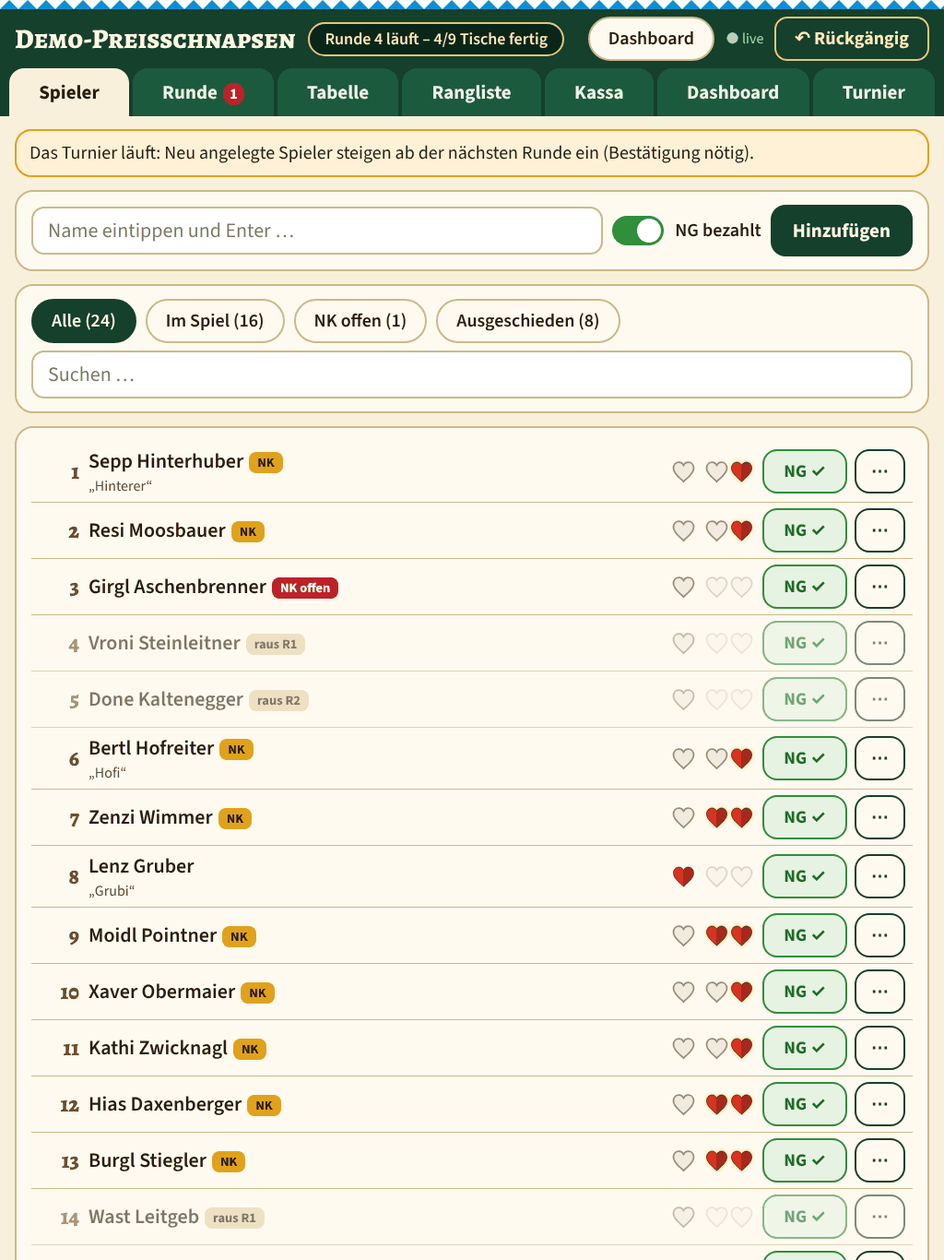
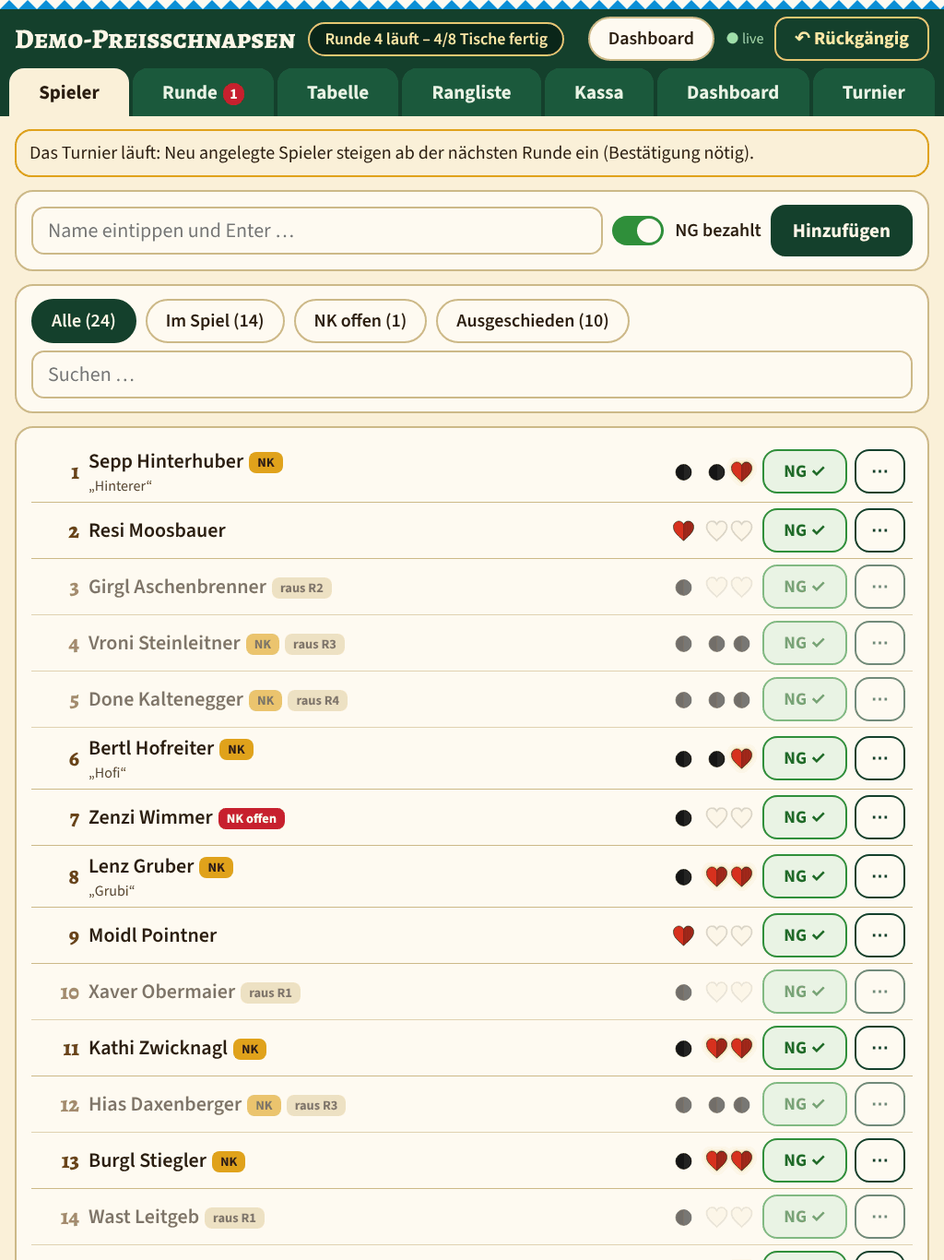
Redesign table cards and mark bummerls with a black dot
Table cards on the dashboard use a playing-card layout with all four suits in the corners and the table number in a medallion; losers show one dot per bummerl. Lost lives are drawn as a black dot in the heraldic style of the heart, rebuy lives not bought stay outlined. README screenshots updated.

diff --git a/app/static/js/suits.js b/app/static/js/suits.js
@@ -1,6 +1,6 @@
 /* Generated by tools/make_suits.py - do not edit by hand. */
 (function () {
-  var SVG = '<svg xmlns="http://www.w3.org/2000/svg" width="0" height="0" style="position:absolute;width:0;height:0;overflow:hidden" aria-hidden="true"><defs><clipPath id="cl-eichel-n"><path d="M30 52 V23 A20 20 0 0 1 70 23 V52 Z"/></clipPath><clipPath id="cl-eichel-c"><path d="M24 52 H76 C80 52 82 55 82 60 C82 73 69 81 50 81 C31 81 18 73 18 60 C18 55 20 52 24 52 Z"/></clipPath><clipPath id="cl-gras"><path d="M51 5 C60 16 88 34 91 56 C93 72 82 80 68 79 C61 78 56 75 52 71 C48 75 42 78 35 79 C21 80 9 71 11 56 C14 34 42 16 51 5 Z"/></clipPath><clipPath id="cl-herz"><path d="M50 93 C38 79 6 60 6 34 C6 18 17 8 30 8 C40 8 47 14 50 23 C53 14 60 8 70 8 C83 8 94 18 94 34 C94 60 62 79 50 93 Z"/></clipPath><clipPath id="cl-schelln"><circle cx="50" cy="49" r="43"/></clipPath></defs><symbol id="eichel" viewBox="0 0 100 100"><path d="M53 79 C55 88 51 94 38 98 C36.5 97.5 36.5 96 38 95.5 C46 92 49 87 48 79 Z" fill="#3c7d2c" stroke="#141414" stroke-width="1.8" stroke-linejoin="round"/><g clip-path="url(#cl-eichel-n)"><rect x="0" y="0" width="50" height="60" fill="#f7ea3a"/><rect x="50" y="0" width="50" height="60" fill="#d8321f"/><path d="M51.50 0V52M54.50 0V52M57.50 0V52M60.50 0V52M63.50 0V52M66.50 0V52M69.50 0V52M72.50 0V52M75.50 0V52M78.50 0V52M81.50 0V52M84.50 0V52M87.50 0V52M90.50 0V52M93.50 0V52M96.50 0V52M99.50 0V52" stroke="#141414" stroke-width="0.95" fill="none"/><rect x="0" y="44" width="50" height="8" fill="#1f35d0"/><rect x="50" y="44" width="50" height="8" fill="#141414"/></g><path d="M30 52 V23 A20 20 0 0 1 70 23 V52 Z" fill="none" stroke="#141414" stroke-width="2.4" stroke-linejoin="round"/><path d="M30 44 H70 M50 3 V44" stroke="#141414" stroke-width="1.4"/><path d="M24 52 H76 C80 52 82 55 82 60 C82 73 69 81 50 81 C31 81 18 73 18 60 C18 55 20 52 24 52 Z" fill="#3c7d2c"/><g clip-path="url(#cl-eichel-c)"><path d="M51.50 50V84M54.50 50V84M57.50 50V84M60.50 50V84M63.50 50V84M66.50 50V84M69.50 50V84M72.50 50V84M75.50 50V84M78.50 50V84M81.50 50V84M84.50 50V84M87.50 50V84M90.50 50V84M93.50 50V84M96.50 50V84M99.50 50V84" stroke="#141414" stroke-width="0.95" fill="none"/></g><path d="M31 57 C26 57 25.5 64 32 76 C32.2 68 35.5 61 33.6 58.2 C33 57.4 32 57 31 57 Z M47 57 C42 57 41.5 64 48 76 C48.2 68 51.5 61 49.6 58.2 C49 57.4 48 57 47 57 Z M64 57 C59 57 58.5 64 65 76 C65.2 68 68.5 61 66.6 58.2 C66 57.4 65 57 64 57 Z" fill="#141414"/><path d="M24 52 H76 C80 52 82 55 82 60 C82 73 69 81 50 81 C31 81 18 73 18 60 C18 55 20 52 24 52 Z" fill="none" stroke="#141414" stroke-width="2.4" stroke-linejoin="round"/></symbol><symbol id="gras" viewBox="0 0 100 100"><path d="M52 71 C53 81 51 88 45 93 C42 95 40 92 43 90 C47 87 49 81 49 72 Z" fill="#3c7d2c" stroke="#141414" stroke-width="1.8" stroke-linejoin="round"/><path d="M51 5 C60 16 88 34 91 56 C93 72 82 80 68 79 C61 78 56 75 52 71 C48 75 42 78 35 79 C21 80 9 71 11 56 C14 34 42 16 51 5 Z" fill="#3c7d2c"/><g clip-path="url(#cl-gras)"><path d="M52.50 0V100M55.50 0V100M58.50 0V100M61.50 0V100M64.50 0V100M67.50 0V100M70.50 0V100M73.50 0V100M76.50 0V100M79.50 0V100M82.50 0V100M85.50 0V100M88.50 0V100M91.50 0V100M94.50 0V100M97.50 0V100" stroke="#141414" stroke-width="0.95" fill="none"/></g><g clip-path="url(#cl-gras)"><path d="M17 36 C34 33 58 35 82 38 M28 33 l-5 -6 M44 34 l-4 -7 M60 35 l3 -6 M72 36 l4 -6 M13 50 C36 46 62 48 88 51 M26 48 l-5 -6 M44 47 l-4 -7 M62 48 l3 -7 M76 49 l5 -6 M14 64 C38 60 64 62 89 65 M28 62 l-4 -6 M46 61 l-4 -7 M64 62 l3 -7 M78 63 l5 -6" stroke="#141414" stroke-width="1.9" stroke-linecap="round" fill="none"/></g><path d="M51 5 C60 16 88 34 91 56 C93 72 82 80 68 79 C61 78 56 75 52 71 C48 75 42 78 35 79 C21 80 9 71 11 56 C14 34 42 16 51 5 Z" fill="none" stroke="#141414" stroke-width="2.4" stroke-linejoin="round"/></symbol><symbol id="herz" viewBox="0 0 100 100"><path d="M50 93 C38 79 6 60 6 34 C6 18 17 8 30 8 C40 8 47 14 50 23 C53 14 60 8 70 8 C83 8 94 18 94 34 C94 60 62 79 50 93 Z" fill="#d8321f"/><g clip-path="url(#cl-herz)"><path d="M51.50 0V100M54.50 0V100M57.50 0V100M60.50 0V100M63.50 0V100M66.50 0V100M69.50 0V100M72.50 0V100M75.50 0V100M78.50 0V100M81.50 0V100M84.50 0V100M87.50 0V100M90.50 0V100M93.50 0V100M96.50 0V100M99.50 0V100" stroke="#141414" stroke-width="0.95" fill="none"/></g><path d="M50 23 V93" stroke="#141414" stroke-width="1.1"/><path d="M50 93 C38 79 6 60 6 34 C6 18 17 8 30 8 C40 8 47 14 50 23 C53 14 60 8 70 8 C83 8 94 18 94 34 C94 60 62 79 50 93 Z" fill="none" stroke="#141414" stroke-width="2.4" stroke-linejoin="round"/></symbol><symbol id="herz-leer" viewBox="0 0 100 100"><path d="M50 93 C38 79 6 60 6 34 C6 18 17 8 30 8 C40 8 47 14 50 23 C53 14 60 8 70 8 C83 8 94 18 94 34 C94 60 62 79 50 93 Z" fill="currentColor" fill-opacity=".14" stroke="currentColor" stroke-width="7" stroke-linejoin="round"/></symbol><symbol id="schelln" viewBox="0 0 100 100"><g clip-path="url(#cl-schelln)"><rect x="0" y="0" width="100" height="40" fill="#f7ea3a"/><rect x="0" y="40" width="100" height="22" fill="#d8321f"/><rect x="0" y="62" width="100" height="6" fill="#f7ea3a"/><rect x="0" y="68" width="100" height="40" fill="#3c7d2c"/><path d="M50 7.50H100M50 10.50H100M50 13.50H100M50 16.50H100M50 19.50H100M50 22.50H100M50 25.50H100M50 28.50H100M50 31.50H100M50 34.50H100M50 37.50H100" stroke="#141414" stroke-width="0.95" fill="none"/><path d="M51.50 40V68M54.50 40V68M57.50 40V68M60.50 40V68M63.50 40V68M66.50 40V68M69.50 40V68M72.50 40V68M75.50 40V68M78.50 40V68M81.50 40V68M84.50 40V68M87.50 40V68M90.50 40V68M93.50 40V68M96.50 40V68M99.50 40V68" stroke="#141414" stroke-width="0.95" fill="none"/><path d="M50 69.50H100M50 72.50H100M50 75.50H100M50 78.50H100M50 81.50H100M50 84.50H100M50 87.50H100M50 90.50H100M50 93.50H100M50 96.50H100M50 99.50H100" stroke="#141414" stroke-width="0.95" fill="none"/><path d="M0 40 H100 M0 62 H100 M0 68 H100 M50 6 V100" stroke="#141414" stroke-width="1.5"/><path d="M50 92 C41 88 37 79 41 70 C45 74 49 80 50 92 Z M50 92 C59 88 63 79 59 70 C55 74 51 80 50 92 Z M24 80 C27 71 35 66 43 68 C40 76 33 81 24 80 Z M76 80 C73 71 65 66 57 68 C60 76 67 81 76 80 Z" fill="#3c7d2c" stroke="#141414" stroke-width="1.6" stroke-linejoin="round"/></g><circle cx="28" cy="51" r="6.2" fill="#d8321f" stroke="#141414" stroke-width="1.8"/><path d="M22.4 49 H33.6 M22.2 51.5 H33.8 M23 54 H33" stroke="#141414" stroke-width="1.2"/><circle cx="50" cy="51" r="6.2" fill="#d8321f" stroke="#141414" stroke-width="1.8"/><path d="M44.4 49 H55.6 M44.2 51.5 H55.8 M45 54 H55" stroke="#141414" stroke-width="1.2"/><circle cx="72" cy="51" r="6.2" fill="#d8321f" stroke="#141414" stroke-width="1.8"/><path d="M66.4 49 H77.6 M66.2 51.5 H77.8 M67 54 H77" stroke="#141414" stroke-width="1.2"/><circle cx="50" cy="11" r="5.2" fill="#f7ea3a" stroke="#141414" stroke-width="1.6"/><path d="M50 6 V16 M51.5 7.5 H55 M51.5 10 H55.6 M51.5 12.5 H55.4" stroke="#141414" stroke-width="1"/><path d="M45 91 C45 98 55 98 55 91" fill="#3c7d2c" stroke="#141414" stroke-width="1.8"/><circle cx="50" cy="49" r="43" fill="none" stroke="#141414" stroke-width="2.4"/></symbol></svg>';
+  var SVG = '<svg xmlns="http://www.w3.org/2000/svg" width="0" height="0" style="position:absolute;width:0;height:0;overflow:hidden" aria-hidden="true"><defs><clipPath id="cl-eichel-n"><path d="M30 52 V23 A20 20 0 0 1 70 23 V52 Z"/></clipPath><clipPath id="cl-eichel-c"><path d="M24 52 H76 C80 52 82 55 82 60 C82 73 69 81 50 81 C31 81 18 73 18 60 C18 55 20 52 24 52 Z"/></clipPath><clipPath id="cl-gras"><path d="M51 5 C60 16 88 34 91 56 C93 72 82 80 68 79 C61 78 56 75 52 71 C48 75 42 78 35 79 C21 80 9 71 11 56 C14 34 42 16 51 5 Z"/></clipPath><clipPath id="cl-herz"><path d="M50 93 C38 79 6 60 6 34 C6 18 17 8 30 8 C40 8 47 14 50 23 C53 14 60 8 70 8 C83 8 94 18 94 34 C94 60 62 79 50 93 Z"/></clipPath><clipPath id="cl-bummerl"><circle cx="50" cy="52" r="34"/></clipPath><clipPath id="cl-schelln"><circle cx="50" cy="49" r="43"/></clipPath></defs><symbol id="eichel" viewBox="0 0 100 100"><path d="M53 79 C55 88 51 94 38 98 C36.5 97.5 36.5 96 38 95.5 C46 92 49 87 48 79 Z" fill="#3c7d2c" stroke="#141414" stroke-width="1.8" stroke-linejoin="round"/><g clip-path="url(#cl-eichel-n)"><rect x="0" y="0" width="50" height="60" fill="#f7ea3a"/><rect x="50" y="0" width="50" height="60" fill="#d8321f"/><path d="M51.50 0V52M54.50 0V52M57.50 0V52M60.50 0V52M63.50 0V52M66.50 0V52M69.50 0V52M72.50 0V52M75.50 0V52M78.50 0V52M81.50 0V52M84.50 0V52M87.50 0V52M90.50 0V52M93.50 0V52M96.50 0V52M99.50 0V52" stroke="#141414" stroke-width="0.95" fill="none"/><rect x="0" y="44" width="50" height="8" fill="#1f35d0"/><rect x="50" y="44" width="50" height="8" fill="#141414"/></g><path d="M30 52 V23 A20 20 0 0 1 70 23 V52 Z" fill="none" stroke="#141414" stroke-width="2.4" stroke-linejoin="round"/><path d="M30 44 H70 M50 3 V44" stroke="#141414" stroke-width="1.4"/><path d="M24 52 H76 C80 52 82 55 82 60 C82 73 69 81 50 81 C31 81 18 73 18 60 C18 55 20 52 24 52 Z" fill="#3c7d2c"/><g clip-path="url(#cl-eichel-c)"><path d="M51.50 50V84M54.50 50V84M57.50 50V84M60.50 50V84M63.50 50V84M66.50 50V84M69.50 50V84M72.50 50V84M75.50 50V84M78.50 50V84M81.50 50V84M84.50 50V84M87.50 50V84M90.50 50V84M93.50 50V84M96.50 50V84M99.50 50V84" stroke="#141414" stroke-width="0.95" fill="none"/></g><path d="M31 57 C26 57 25.5 64 32 76 C32.2 68 35.5 61 33.6 58.2 C33 57.4 32 57 31 57 Z M47 57 C42 57 41.5 64 48 76 C48.2 68 51.5 61 49.6 58.2 C49 57.4 48 57 47 57 Z M64 57 C59 57 58.5 64 65 76 C65.2 68 68.5 61 66.6 58.2 C66 57.4 65 57 64 57 Z" fill="#141414"/><path d="M24 52 H76 C80 52 82 55 82 60 C82 73 69 81 50 81 C31 81 18 73 18 60 C18 55 20 52 24 52 Z" fill="none" stroke="#141414" stroke-width="2.4" stroke-linejoin="round"/></symbol><symbol id="gras" viewBox="0 0 100 100"><path d="M52 71 C53 81 51 88 45 93 C42 95 40 92 43 90 C47 87 49 81 49 72 Z" fill="#3c7d2c" stroke="#141414" stroke-width="1.8" stroke-linejoin="round"/><path d="M51 5 C60 16 88 34 91 56 C93 72 82 80 68 79 C61 78 56 75 52 71 C48 75 42 78 35 79 C21 80 9 71 11 56 C14 34 42 16 51 5 Z" fill="#3c7d2c"/><g clip-path="url(#cl-gras)"><path d="M52.50 0V100M55.50 0V100M58.50 0V100M61.50 0V100M64.50 0V100M67.50 0V100M70.50 0V100M73.50 0V100M76.50 0V100M79.50 0V100M82.50 0V100M85.50 0V100M88.50 0V100M91.50 0V100M94.50 0V100M97.50 0V100" stroke="#141414" stroke-width="0.95" fill="none"/></g><g clip-path="url(#cl-gras)"><path d="M17 36 C34 33 58 35 82 38 M28 33 l-5 -6 M44 34 l-4 -7 M60 35 l3 -6 M72 36 l4 -6 M13 50 C36 46 62 48 88 51 M26 48 l-5 -6 M44 47 l-4 -7 M62 48 l3 -7 M76 49 l5 -6 M14 64 C38 60 64 62 89 65 M28 62 l-4 -6 M46 61 l-4 -7 M64 62 l3 -7 M78 63 l5 -6" stroke="#141414" stroke-width="1.9" stroke-linecap="round" fill="none"/></g><path d="M51 5 C60 16 88 34 91 56 C93 72 82 80 68 79 C61 78 56 75 52 71 C48 75 42 78 35 79 C21 80 9 71 11 56 C14 34 42 16 51 5 Z" fill="none" stroke="#141414" stroke-width="2.4" stroke-linejoin="round"/></symbol><symbol id="herz" viewBox="0 0 100 100"><path d="M50 93 C38 79 6 60 6 34 C6 18 17 8 30 8 C40 8 47 14 50 23 C53 14 60 8 70 8 C83 8 94 18 94 34 C94 60 62 79 50 93 Z" fill="#d8321f"/><g clip-path="url(#cl-herz)"><path d="M51.50 0V100M54.50 0V100M57.50 0V100M60.50 0V100M63.50 0V100M66.50 0V100M69.50 0V100M72.50 0V100M75.50 0V100M78.50 0V100M81.50 0V100M84.50 0V100M87.50 0V100M90.50 0V100M93.50 0V100M96.50 0V100M99.50 0V100" stroke="#141414" stroke-width="0.95" fill="none"/></g><path d="M50 23 V93" stroke="#141414" stroke-width="1.1"/><path d="M50 93 C38 79 6 60 6 34 C6 18 17 8 30 8 C40 8 47 14 50 23 C53 14 60 8 70 8 C83 8 94 18 94 34 C94 60 62 79 50 93 Z" fill="none" stroke="#141414" stroke-width="2.4" stroke-linejoin="round"/></symbol><symbol id="herz-leer" viewBox="0 0 100 100"><path d="M50 93 C38 79 6 60 6 34 C6 18 17 8 30 8 C40 8 47 14 50 23 C53 14 60 8 70 8 C83 8 94 18 94 34 C94 60 62 79 50 93 Z" fill="currentColor" fill-opacity=".14" stroke="currentColor" stroke-width="7" stroke-linejoin="round"/></symbol><symbol id="bummerl" viewBox="0 0 100 100"><circle cx="50" cy="52" r="34" fill="#141414"/><g clip-path="url(#cl-bummerl)"><rect x="50" y="0" width="50" height="100" fill="#2b2b2b"/><path d="M51.50 0V100M54.50 0V100M57.50 0V100M60.50 0V100M63.50 0V100M66.50 0V100M69.50 0V100M72.50 0V100M75.50 0V100M78.50 0V100M81.50 0V100M84.50 0V100M87.50 0V100M90.50 0V100M93.50 0V100M96.50 0V100M99.50 0V100" stroke="#141414" stroke-width="0.95" fill="none"/></g><path d="M50 18 V86" stroke="#141414" stroke-width="1.1"/><circle cx="50" cy="52" r="34" fill="none" stroke="#141414" stroke-width="2.4"/></symbol><symbol id="schelln" viewBox="0 0 100 100"><g clip-path="url(#cl-schelln)"><rect x="0" y="0" width="100" height="40" fill="#f7ea3a"/><rect x="0" y="40" width="100" height="22" fill="#d8321f"/><rect x="0" y="62" width="100" height="6" fill="#f7ea3a"/><rect x="0" y="68" width="100" height="40" fill="#3c7d2c"/><path d="M50 7.50H100M50 10.50H100M50 13.50H100M50 16.50H100M50 19.50H100M50 22.50H100M50 25.50H100M50 28.50H100M50 31.50H100M50 34.50H100M50 37.50H100" stroke="#141414" stroke-width="0.95" fill="none"/><path d="M51.50 40V68M54.50 40V68M57.50 40V68M60.50 40V68M63.50 40V68M66.50 40V68M69.50 40V68M72.50 40V68M75.50 40V68M78.50 40V68M81.50 40V68M84.50 40V68M87.50 40V68M90.50 40V68M93.50 40V68M96.50 40V68M99.50 40V68" stroke="#141414" stroke-width="0.95" fill="none"/><path d="M50 69.50H100M50 72.50H100M50 75.50H100M50 78.50H100M50 81.50H100M50 84.50H100M50 87.50H100M50 90.50H100M50 93.50H100M50 96.50H100M50 99.50H100" stroke="#141414" stroke-width="0.95" fill="none"/><path d="M0 40 H100 M0 62 H100 M0 68 H100 M50 6 V100" stroke="#141414" stroke-width="1.5"/><path d="M50 92 C41 88 37 79 41 70 C45 74 49 80 50 92 Z M50 92 C59 88 63 79 59 70 C55 74 51 80 50 92 Z M24 80 C27 71 35 66 43 68 C40 76 33 81 24 80 Z M76 80 C73 71 65 66 57 68 C60 76 67 81 76 80 Z" fill="#3c7d2c" stroke="#141414" stroke-width="1.6" stroke-linejoin="round"/></g><circle cx="28" cy="51" r="6.2" fill="#d8321f" stroke="#141414" stroke-width="1.8"/><path d="M22.4 49 H33.6 M22.2 51.5 H33.8 M23 54 H33" stroke="#141414" stroke-width="1.2"/><circle cx="50" cy="51" r="6.2" fill="#d8321f" stroke="#141414" stroke-width="1.8"/><path d="M44.4 49 H55.6 M44.2 51.5 H55.8 M45 54 H55" stroke="#141414" stroke-width="1.2"/><circle cx="72" cy="51" r="6.2" fill="#d8321f" stroke="#141414" stroke-width="1.8"/><path d="M66.4 49 H77.6 M66.2 51.5 H77.8 M67 54 H77" stroke="#141414" stroke-width="1.2"/><circle cx="50" cy="11" r="5.2" fill="#f7ea3a" stroke="#141414" stroke-width="1.6"/><path d="M50 6 V16 M51.5 7.5 H55 M51.5 10 H55.6 M51.5 12.5 H55.4" stroke="#141414" stroke-width="1"/><path d="M45 91 C45 98 55 98 55 91" fill="#3c7d2c" stroke="#141414" stroke-width="1.8"/><circle cx="50" cy="49" r="43" fill="none" stroke="#141414" stroke-width="2.4"/></symbol></svg>';
   function inject() {
     if (document.getElementById('suits-sprite')) return;
     var d = document.createElement('div'); d.id = 'suits-sprite'; d.style.cssText = 'position:absolute;width:0;height:0;overflow:hidden';

diff --git a/app/static/css/dashboard.css b/app/static/css/dashboard.css
@@ -26,23 +26,31 @@ body.dash.idle{cursor:none}
 
 /* Tables */
 .tgrid{display:grid;height:100%;gap:18px}
-.card{container-type:size;position:relative;background:linear-gradient(#fffbec,#f6ecd0);color:var(--ink);border-radius:18px;border:4px solid #3b2a14;box-shadow:0 6px 0 #0006;overflow:hidden}
-.card .ci{position:absolute;inset:0;display:flex;flex-direction:column;justify-content:center;padding:4cqh 5cqw 4cqh 20cqw}
-.card .idx{position:absolute;left:5cqw;top:6cqh;width:13cqw;display:flex;flex-direction:column;align-items:center;font-family:var(--head);font-weight:800;font-size:min(20cqw,26cqh);line-height:.95;color:var(--red-d)}
-.card .idx .ic{font-size:min(11cqw,14cqh);margin-top:.15em}
-.card .idx.alt{color:#1f6a28}.card .idx.alt2{color:#a8730a}.card .idx.alt3{color:#6a431a}
+/* Table cards in playing-card style (sizes relative to the card via container units) */
+.card{container-type:size;position:relative;background:radial-gradient(120% 140% at 30% 20%,#fffdf3,#f4e8c8);color:var(--ink);border-radius:2.4cqmin;border:.9cqmin solid #3b2a14;box-shadow:0 6px 0 #0006;overflow:hidden}
+.card:before{content:"";position:absolute;inset:2.6cqmin;border:.45cqmin solid #3b2a1455;border-radius:1.6cqmin;pointer-events:none}
+.card:after{content:"";position:absolute;inset:3.8cqmin;border:.2cqmin solid #3b2a1430;border-radius:1.2cqmin;pointer-events:none}
+.card .cn{position:absolute;width:14cqmin;height:14cqmin;display:flex}
+.card .cn .ic{width:100%;height:100%}
+.card .cn.tl{left:6cqmin;top:6cqmin}.card .cn.tr{right:6cqmin;top:6cqmin}
+.card .cn.bl{left:6cqmin;bottom:6cqmin;transform:rotate(180deg)}.card .cn.br{right:6cqmin;bottom:6cqmin;transform:rotate(180deg)}
+.card .medal{position:absolute;left:9cqmin;top:50%;transform:translateY(-50%);width:42cqmin;height:42cqmin;border-radius:50%;display:flex;flex-direction:column;align-items:center;justify-content:center;background:#fffaf0;border:1.1cqmin double currentColor;box-shadow:inset 0 0 0 .5cqmin #fffaf0,inset 0 0 0 .9cqmin currentColor;font-family:var(--head);line-height:.9;z-index:1}
+.card .medal b{font-size:22cqmin;font-weight:800}
+.card .medal small{font-size:5.4cqmin;font-weight:700;letter-spacing:.08em;text-transform:uppercase;margin-top:.6cqmin;opacity:.85}
+.card .medal.t-eichel{color:#6a431a}.card .medal.t-gras{color:#2f6e25}.card .medal.t-herz{color:#b3261b}.card .medal.t-schelln{color:#a8730a}
+.card .ci{position:absolute;top:12cqmin;bottom:12cqmin;left:58cqmin;right:10cqmin;display:flex;flex-direction:column;justify-content:center;min-width:0}
 .card .nmx{min-width:0;overflow:hidden;text-overflow:ellipsis;white-space:nowrap}
-.card .pl{font-weight:700;font-size:calc(min(9.5cqw,17cqh) * var(--s,1));line-height:1.15;white-space:nowrap;overflow:hidden;text-overflow:ellipsis;display:flex;align-items:center;gap:.3em}
-.card .vs{font-size:min(5cqw,9cqh);color:var(--ink-2);line-height:1;padding:.1em 0;font-family:var(--head)}
-.card .pl .tag{margin-left:auto}
+.card .pl{font-weight:700;font-size:calc(15cqmin * var(--s,1));line-height:1.15;white-space:nowrap;overflow:hidden;display:flex;align-items:center;gap:.3em}
+.card .vs{font-size:5.6cqmin;color:var(--ink-2);line-height:1;padding:.5cqmin 0 .5cqmin .2em;font-family:var(--head);letter-spacing:.06em}
+.card .status{position:absolute;top:7.5cqmin;right:25cqmin;font-weight:700;font-size:5.6cqmin;color:var(--gold-d);text-transform:uppercase;letter-spacing:.08em;background:#fff3cf;border:.35cqmin solid #e0a21b;border-radius:3cqmin;padding:.4cqmin 2cqmin}
+.card.open{border-color:#b98712;box-shadow:0 0 0 .6cqmin #e0a21b66,0 6px 0 #0006}
+.card.done{background:radial-gradient(120% 140% at 30% 20%,#f6fbef,#dcebc6)}
 .card.done .pl.lose{color:#8a7a60}
 .card.done .pl.win{color:var(--green-d)}
-.card.done{background:linear-gradient(#f0f8e6,#dcebc6)}
-.card.open{border-color:var(--gold);box-shadow:0 0 0 4px #e0a21b66,0 6px 0 #0006}
-.card.open .ci:after{content:"läuft";position:absolute;right:5cqw;top:4cqh;font-weight:700;font-size:min(5.5cqw,9cqh);color:var(--gold-d);text-transform:uppercase;letter-spacing:.05em}
-.card.bye{background:linear-gradient(#fff6d6,#f3df9a)}
-.card .bummerl{display:inline-flex;align-items:center;gap:.1em;color:var(--red-d);font-size:.8em;margin-left:auto}
+.card.bye{background:radial-gradient(120% 140% at 30% 20%,#fffbe6,#f3df9a)}
 .card .crown{color:var(--green);font-weight:800}
+.card .bummerl{display:inline-flex;align-items:center;gap:.14em;margin-left:auto;padding-left:.4em;flex:none}
+.card .bummerl .ic{width:.78em;height:.78em}
 
 /* Players */
 .pgrid{display:grid;height:100%;grid-auto-flow:column;gap:0 40px}
@@ -123,7 +131,7 @@ body.dash.idle{cursor:none}
 #adminlink[hidden]{display:none}
 @media (prefers-reduced-motion:reduce){#anim .acard{animation:none;transform:none}}
 /* lives on a dark background: lost ones as light outline */
-body .prow .hearts .heart.lost{color:#e6dcbf;opacity:.6}
+body .prow .hearts .heart.lost{opacity:1;filter:drop-shadow(0 0 .05em #f3e6c4) drop-shadow(0 0 .02em #f3e6c4)}
 body .prow .hearts .heart.none{color:#e6dcbf;opacity:.2}
 /* more compact header on smaller screens */
 @media (max-width:1600px){.top{gap:18px;padding:12px 22px}.top h1{font-size:40px;max-width:34vw}.top .mid{gap:18px;font-size:26px}.top .rnd{font-size:40px;padding:2px 16px}.top .stat{font-size:24px}.top .right{gap:14px;font-size:22px}.top .clock{font-size:40px}#adminlink{font-size:18px;padding:6px 12px}}

diff --git a/app/static/js/dashboard.js b/app/static/js/dashboard.js
@@ -90,26 +90,32 @@
       const T = tiles.length;
       const cols = bestCols(T), rows = Math.ceil(T / cols);
       const sc = (...ns) => '--s:' + Math.max(0.6, Math.min(1, 13 / Math.max(...ns.map(n => n.length)))).toFixed(2);
+      // Playing-card style: one suit per corner, table number in a medallion.
+      const corners = '<span class="cn tl">' + ic('eichel') + '</span><span class="cn tr">' + ic('gras') + '</span>' +
+        '<span class="cn bl">' + ic('herz') + '</span><span class="cn br">' + ic('schelln') + '</span>';
+      const tone = n => ['t-eichel', 't-gras', 't-herz', 't-schelln'][((n || 1) - 1) % 4];
+      const medal = (label, cls) => '<div class="medal ' + cls + '"><b>' + label + '</b><small>' + (label === 'F' ? 'Freilos' : 'Tisch') + '</small></div>';
+      const dots = n => '<span class="bummerl" title="' + n + '. Bummerl">' + Array.from({ length: Math.min(3, n) }, () => ic('bummerl')).join('') + '</span>';
       const cards = tiles.map(pr => {
-        const suit = SUITS[((pr.table || 0) + 3) % 4];
-        const alt = ['', 'alt', 'alt2', 'alt3'][((pr.table || 0)) % 4];
         if (pr.bye) {
-          return '<div class="card bye" style="' + sc(name(pr.a)) + '"><div class="ci"><div class="idx alt2">F' + ic('schelln') + '</div><div class="pl"><span class="nmx">' + esc(name(pr.a)) +
-            '</span></div><div class="vs">Freilos \u2013 kampflos weiter</div></div></div>';
+          return '<div class="card bye" style="' + sc(name(pr.a)) + '">' + corners + medal('F', 't-schelln') +
+            '<div class="ci"><div class="pl"><span class="nmx">' + esc(name(pr.a)) + '</span></div>' +
+            '<div class="vs">kampflos weiter</div></div></div>';
         }
         const done = pr.winner != null;
         const line = (id) => {
           let h = '<span class="nmx">' + esc(name(id)) + '</span>';
-          if (done && id === pr.winner) h = '<span class="crown">\u2713</span>' + h;
+          if (done && id === pr.winner) h = '<span class="crown">✓</span>' + h;
           if (done && id !== pr.winner) {
             const c = P(id).cells.find(c => c.round === r.number);
-            h += '<span class="bummerl">' + ic('herz-leer', 'heart lost') + (c && c.loss_no ? c.loss_no : '') + '</span>';
+            if (c && c.loss_no) h += dots(c.loss_no);
           }
           return '<div class="pl ' + (done ? (id === pr.winner ? 'win' : 'lose') : '') + '">' + h + '</div>';
         };
         const sty = sc(name(pr.a), name(pr.b));
-        return '<div class="card ' + (done ? 'done' : 'open') + '" style="' + sty + '"><div class="ci"><div class="idx ' + alt + '">' + pr.table + ic(suit) + '</div>' +
-          line(pr.a) + '<div class="vs">gegen</div>' + line(pr.b) + '</div></div>';
+        return '<div class="card ' + (done ? 'done' : 'open') + '" style="' + sty + '">' + corners + medal(pr.table, tone(pr.table)) +
+          (done ? '' : '<span class="status">läuft</span>') +
+          '<div class="ci">' + line(pr.a) + '<div class="vs">gegen</div>' + line(pr.b) + '</div></div>';
       }).join('');
       return '<div class="tgrid" style="grid-template-columns:repeat(' + cols + ',1fr);grid-template-rows:repeat(' + rows + ',1fr)">' + cards + '</div>';
     }

diff --git a/app/static/js/common.js b/app/static/js/common.js
@@ -9,7 +9,8 @@
     return '<svg class="ic ' + (cls || '') + '" aria-hidden="true"><use href="' + SVG + name + '"/></svg>';
   }
   function heartsHtml(h) {
-    const hz = s => s === 'full' ? 'herz' : 'herz-leer';  // lost or missing lives are drawn as outlines
+    // full: life left (red heart), lost: bummerl (black dot), none: rebuy lives not bought (outline)
+    const hz = s => s === 'full' ? 'herz' : s === 'lost' ? 'bummerl' : 'herz-leer';
     return '<span class="hearts" title="Leben">' + ic(hz(h[0]), 'heart ' + h[0]) + '<span class="nkgap"></span>' +
       ic(hz(h[1]), 'heart nk ' + h[1]) + ic(hz(h[2]), 'heart nk ' + h[2]) + '</span>';
   }

diff --git a/app/static/css/app.css b/app/static/css/app.css
@@ -21,7 +21,7 @@ h1,h2,h3{font-family:var(--head);font-weight:700;margin:0}
 /* Hearts */
 .hearts{display:inline-flex;align-items:center;gap:.08em;white-space:nowrap}
 .hearts .heart{width:1em;height:1em}
-.hearts .heart.lost{color:#8c8068;opacity:.9}
+.hearts .heart.lost{opacity:1}
 .hearts .heart.none{color:#8c8068;opacity:.3}
 .hearts .nkgap{width:.3em}
 .hearts .heart.nk.full{filter:drop-shadow(0 0 .08em #ffd36a)}

diff --git a/tools/make_suits.py b/tools/make_suits.py
@@ -57,6 +57,18 @@ def herz_leer():
                 f'stroke-width="7" stroke-linejoin="round"/>')
 
 
+def bummerl():
+    """Lost game marker: black dot in the same heraldic style as the heart
+    (solid left half, hatched right half, ink outline)."""
+    c = '<circle cx="50" cy="52" r="34"/>'
+    return (clip("cl-bummerl", c),
+            f'<circle cx="50" cy="52" r="34" fill="{INK}"/>'
+            f'<g clip-path="url(#cl-bummerl)"><rect x="50" y="0" width="50" height="100" fill="#2b2b2b"/>'
+            f'{vlines(50, 100, 0, 100)}</g>'
+            f'<path d="M50 18 V86" stroke="{INK}" stroke-width="1.1"/>'
+            f'<circle cx="50" cy="52" r="34" fill="none" stroke="{INK}" stroke-width="{SW}"/>')
+
+
 def gras():
     leaf = ("M51 5 C60 16 88 34 91 56 C93 72 82 80 68 79 C61 78 56 75 52 71 "
             "C48 75 42 78 35 79 C21 80 9 71 11 56 C14 34 42 16 51 5 Z")
@@ -122,7 +134,7 @@ def schelln():
 
 def build():
     defs, syms = [], []
-    for name, fn in (("eichel", eichel), ("gras", gras), ("herz", herz), ("herz-leer", herz_leer), ("schelln", schelln)):
+    for name, fn in (("eichel", eichel), ("gras", gras), ("herz", herz), ("herz-leer", herz_leer), ("bummerl", bummerl), ("schelln", schelln)):
         d, body = fn()
         defs.append(d)
         syms.append(f'<symbol id="{name}" viewBox="0 0 100 100">{body}</symbol>')
